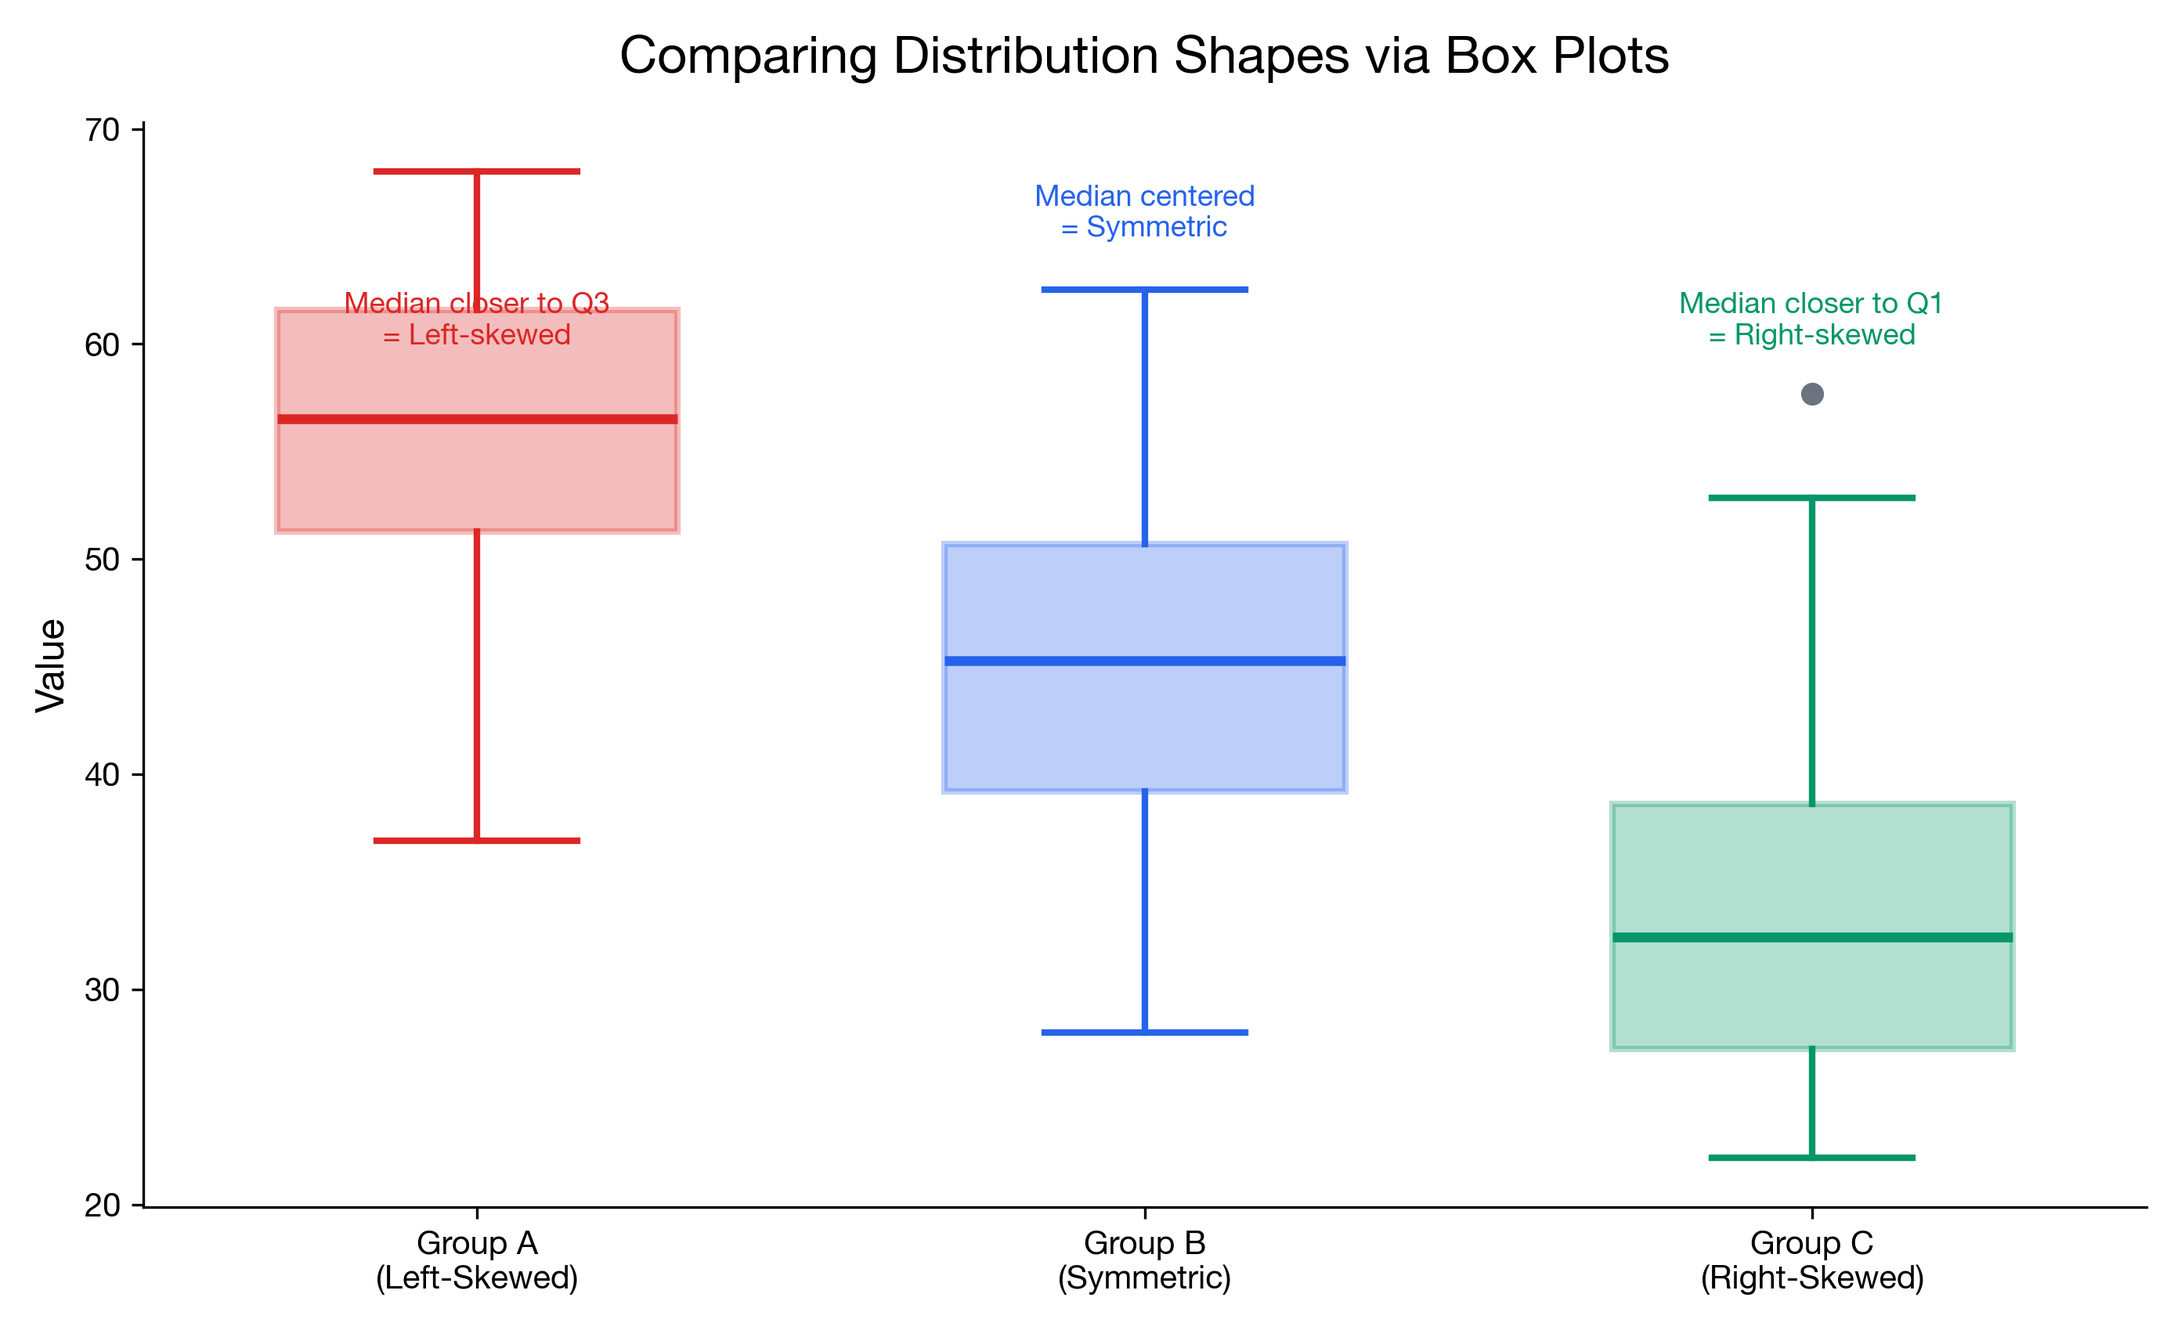
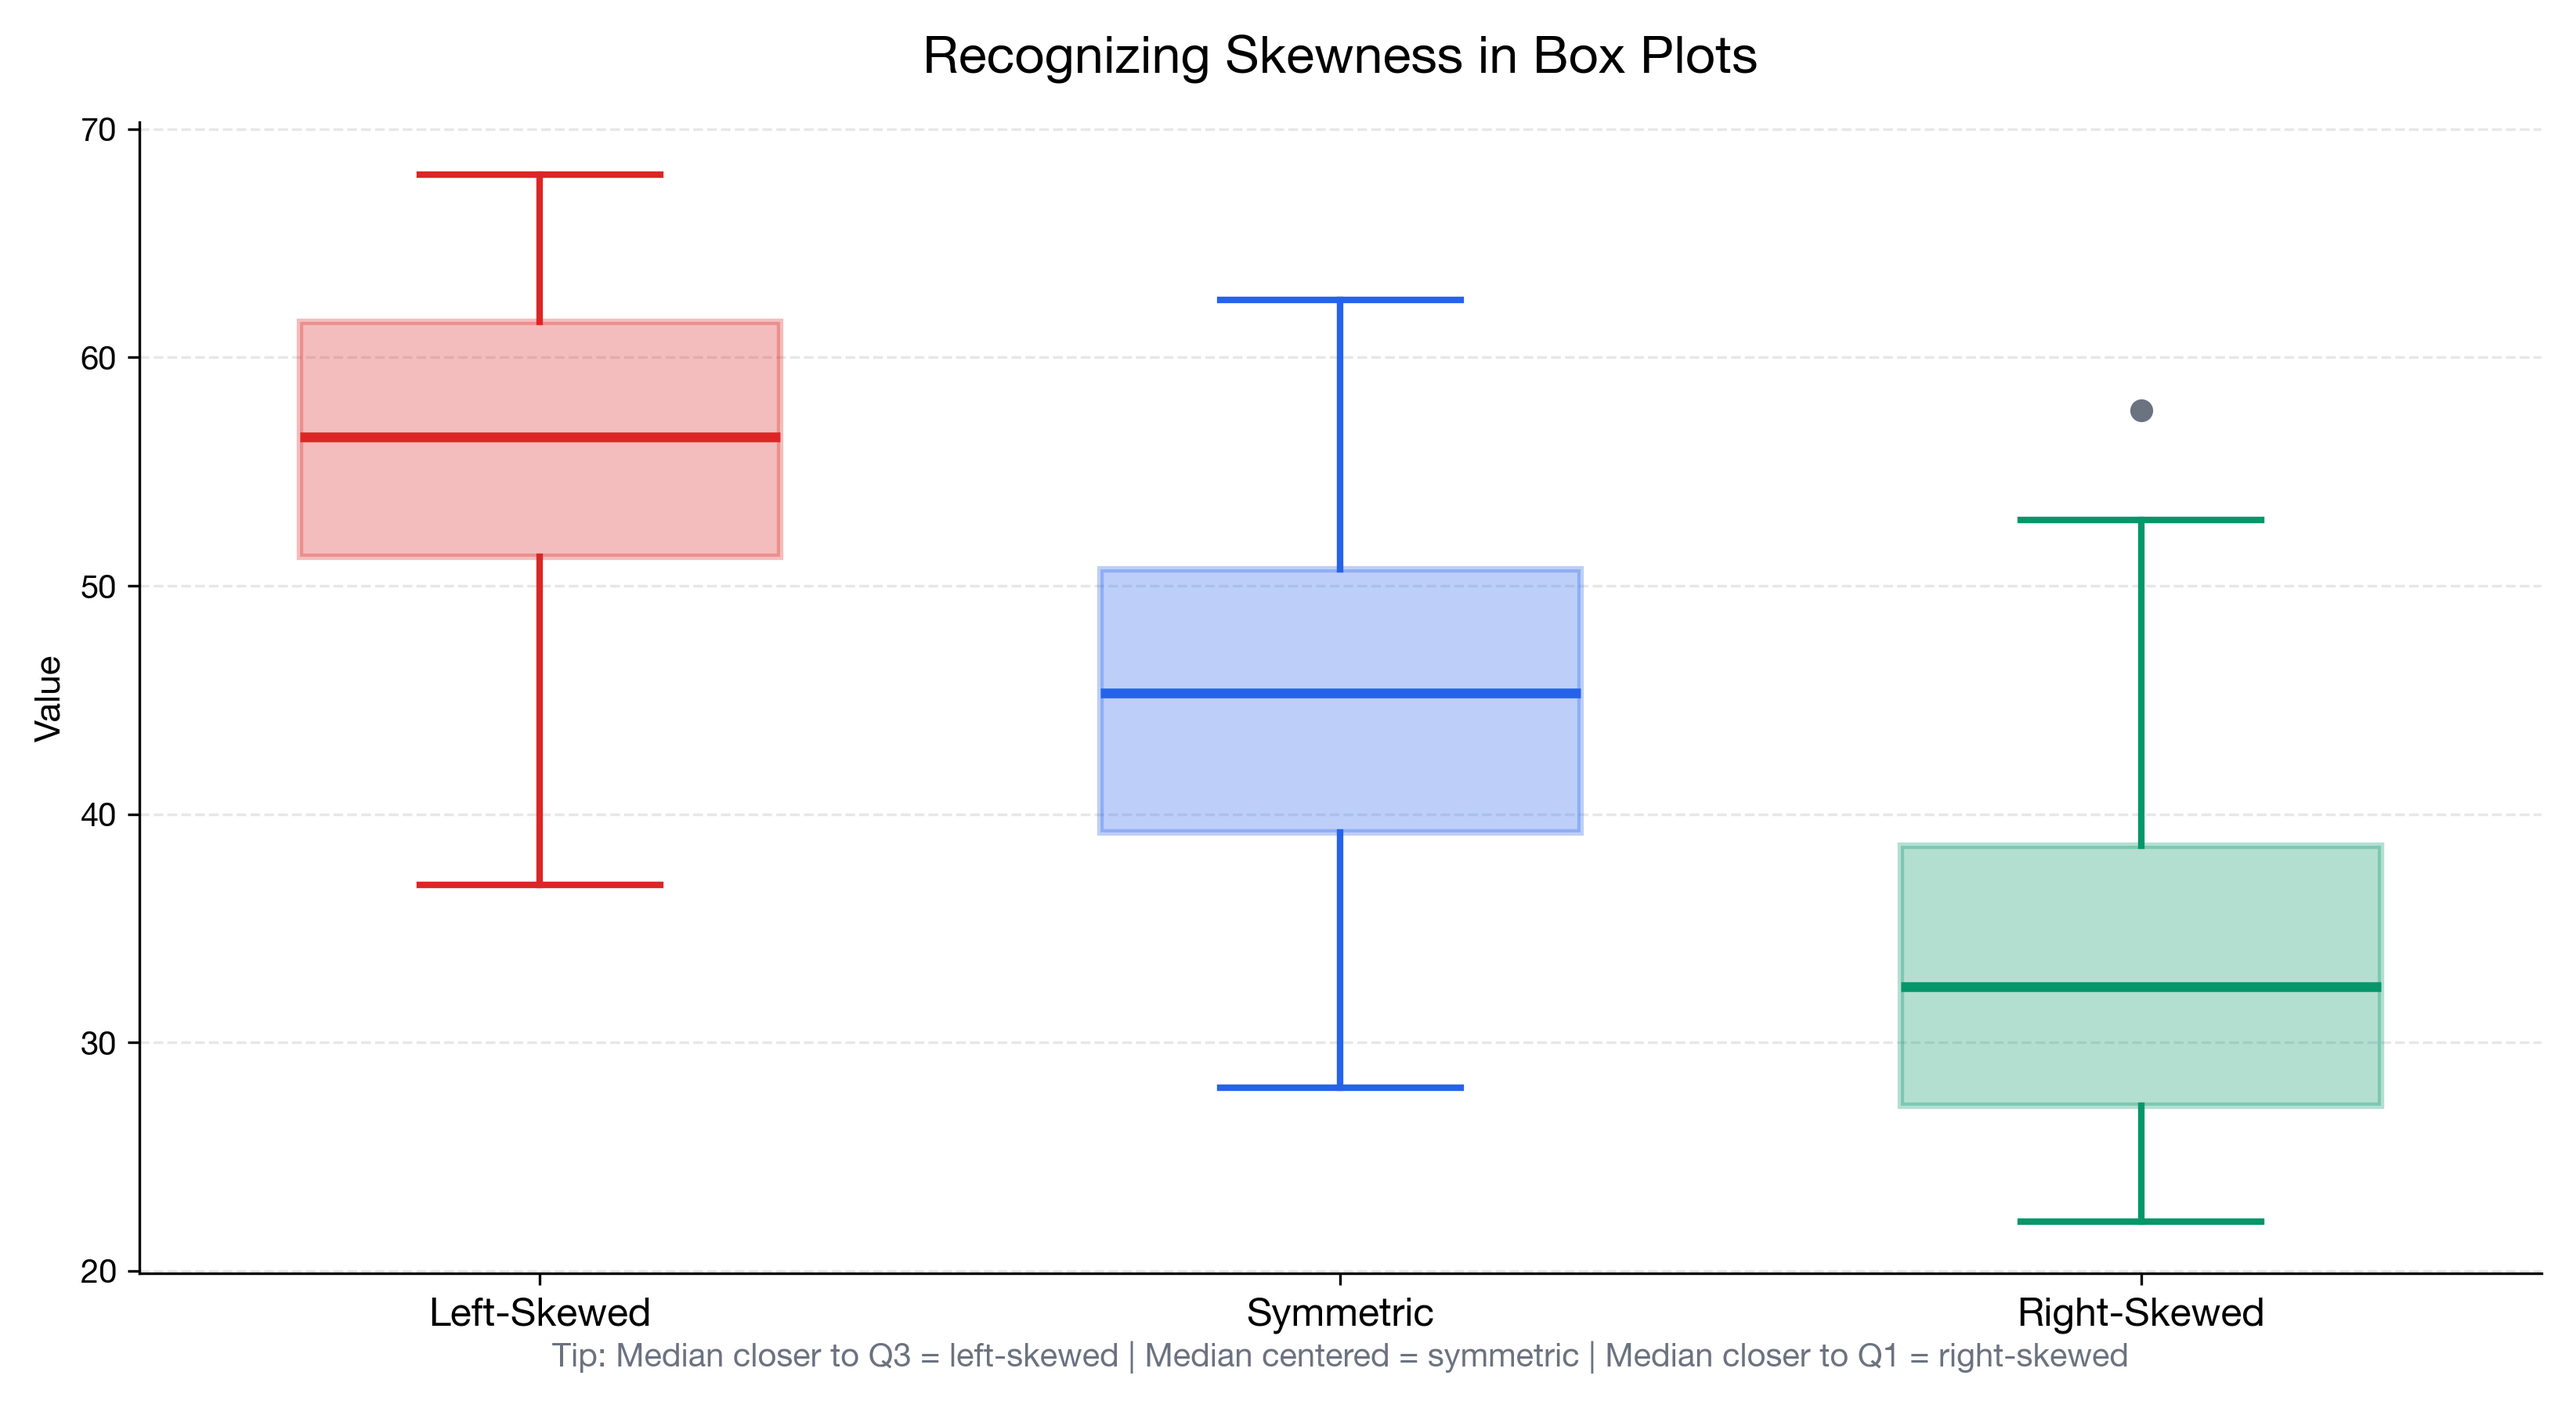
Clean up boxplot visuals - reduce noise while keeping content
boxplot_labeled:
- Split into 2-panel layout (diagram + info card)
- Clean horizontal lines instead of crossing arrows
- Five-number summary displayed as table
- Fence formulas in dedicated section

boxplot_comparison:
- Cleaner labels (no multiline x-ticks)
- Removed floating annotations
- Single line tip at bottom
- Subtle grid, cleaner spines

diff --git a/statistics/tools/generate_images.py b/statistics/tools/generate_images.py
@@ -218,103 +218,115 @@ def generate_kurtosis_types():
 
 
 def generate_boxplot_labeled():
-    """Generate a labeled box plot showing all components."""
-    fig, ax = plt.subplots(figsize=(12, 7))
+    """Generate a labeled box plot showing all components - clean design."""
+    fig, (ax_box, ax_info) = plt.subplots(1, 2, figsize=(14, 7), gridspec_kw={'width_ratios': [1, 1]})
     
-    # Create sample data with an outlier
+    # Create sample data with outliers
     np.random.seed(42)
-    data = np.concatenate([np.random.normal(35, 10, 50), [75, 78]])  # Add outliers
+    data = np.concatenate([np.random.normal(35, 10, 50), [75, 78]])
     
-    # Create box plot
-    bp = ax.boxplot(data, vert=True, widths=0.5, patch_artist=True,
-                    flierprops=dict(marker='o', markerfacecolor=COLORS['warning'], 
-                                   markersize=10, markeredgecolor=COLORS['warning']))
+    # Create box plot - positioned to the left
+    bp = ax_box.boxplot(data, vert=True, widths=0.4, patch_artist=True, positions=[0.5],
+                        flierprops=dict(marker='o', markerfacecolor=COLORS['warning'], 
+                                       markersize=12, markeredgecolor='white', markeredgewidth=2))
     
     # Style the box
-    bp['boxes'][0].set_facecolor(COLORS['light'])
+    bp['boxes'][0].set_facecolor(COLORS['primary'])
+    bp['boxes'][0].set_alpha(0.3)
     bp['boxes'][0].set_edgecolor(COLORS['primary'])
-    bp['boxes'][0].set_linewidth(2)
+    bp['boxes'][0].set_linewidth(3)
     bp['medians'][0].set_color(COLORS['warning'])
-    bp['medians'][0].set_linewidth(3)
-    bp['whiskers'][0].set_color(COLORS['primary'])
-    bp['whiskers'][1].set_color(COLORS['primary'])
-    bp['whiskers'][0].set_linewidth(2)
-    bp['whiskers'][1].set_linewidth(2)
-    bp['caps'][0].set_color(COLORS['primary'])
-    bp['caps'][1].set_color(COLORS['primary'])
-    bp['caps'][0].set_linewidth(2)
-    bp['caps'][1].set_linewidth(2)
+    bp['medians'][0].set_linewidth(4)
+    for whisker in bp['whiskers']:
+        whisker.set_color(COLORS['primary'])
+        whisker.set_linewidth(2)
+    for cap in bp['caps']:
+        cap.set_color(COLORS['primary'])
+        cap.set_linewidth(2)
     
     # Get actual values
-    q1, median, q3 = np.percentile(data[:-2], [25, 50, 75])  # Exclude outliers
+    q1, median, q3 = np.percentile(data[:-2], [25, 50, 75])
     iqr = q3 - q1
     whisker_low = max(min(data), q1 - 1.5 * iqr)
     whisker_high = min(max(data[:-2]), q3 + 1.5 * iqr)
     
-    # Add annotations with arrows
-    annotation_style = dict(fontsize=11, fontweight='bold', color=COLORS['dark'])
-    arrow_style = dict(arrowstyle='->', color=COLORS['neutral'], lw=1.5)
+    # Clean horizontal lines to labels on the right
+    labels_data = [
+        (whisker_high, f'Maximum = {whisker_high:.0f}', COLORS['primary']),
+        (q3, f'Q3 (75th %) = {q3:.0f}', COLORS['primary']),
+        (median, f'Median = {median:.0f}', COLORS['warning']),
+        (q1, f'Q1 (25th %) = {q1:.0f}', COLORS['primary']),
+        (whisker_low, f'Minimum = {whisker_low:.0f}', COLORS['primary']),
+    ]
     
-    # Maximum (whisker)
-    ax.annotate(f'Maximum\n(within 1.5×IQR)\n= {whisker_high:.0f}', 
-                xy=(1, whisker_high), xytext=(1.8, whisker_high + 5),
-                **annotation_style, ha='left',
-                arrowprops=arrow_style)
+    for y_val, label, color in labels_data:
+        ax_box.plot([0.72, 1.0], [y_val, y_val], color=color, linewidth=1.5, linestyle='-', alpha=0.7)
+        ax_box.text(1.05, y_val, label, fontsize=11, fontweight='bold', va='center', color=color)
     
-    # Q3
-    ax.annotate(f'Q3 (75th percentile)\n= {q3:.0f}', 
-                xy=(1.25, q3), xytext=(1.8, q3),
-                **annotation_style, ha='left', va='center',
-                arrowprops=arrow_style)
+    # IQR bracket on the left
+    ax_box.annotate('', xy=(0.2, q1), xytext=(0.2, q3),
+                    arrowprops=dict(arrowstyle='<->', color=COLORS['accent'], lw=3))
+    ax_box.text(0.08, (q1 + q3) / 2, f'IQR\n= {iqr:.0f}', fontsize=12, fontweight='bold', 
+                ha='center', va='center', color=COLORS['accent'])
     
-    # Median
-    ax.annotate(f'Median (Q2)\n= {median:.0f}', 
-                xy=(1.25, median), xytext=(1.8, median - 5),
-                **annotation_style, ha='left',
-                arrowprops=arrow_style)
+    # Outlier label
+    ax_box.text(0.35, 80, 'Outliers', fontsize=11, fontweight='bold', ha='center', 
+                color=COLORS['warning'])
     
-    # Q1
-    ax.annotate(f'Q1 (25th percentile)\n= {q1:.0f}', 
-                xy=(1.25, q1), xytext=(1.8, q1 - 3),
-                **annotation_style, ha='left', va='center',
-                arrowprops=arrow_style)
+    ax_box.set_xlim(0, 1.8)
+    ax_box.set_ylim(0, 90)
+    ax_box.set_ylabel('Value', fontsize=12)
+    ax_box.set_xticks([])
+    ax_box.set_title('Box Plot Anatomy', fontsize=16, fontweight='bold')
+    ax_box.spines['top'].set_visible(False)
+    ax_box.spines['right'].set_visible(False)
+    ax_box.spines['bottom'].set_visible(False)
     
-    # Minimum (whisker)
-    ax.annotate(f'Minimum\n(within 1.5×IQR)\n= {whisker_low:.0f}', 
-                xy=(1, whisker_low), xytext=(1.8, whisker_low - 5),
-                **annotation_style, ha='left',
-                arrowprops=arrow_style)
+    # Right panel: Info card
+    ax_info.axis('off')
     
-    # Outliers
-    ax.annotate('Outliers\n(beyond 1.5×IQR)', 
-                xy=(1, 76), xytext=(0.2, 72),
-                **annotation_style, ha='right',
-                arrowprops=arrow_style)
+    # Five-number summary table
+    ax_info.text(0.5, 0.95, 'Five-Number Summary', fontsize=14, fontweight='bold', 
+                 ha='center', transform=ax_info.transAxes, color=COLORS['dark'])
     
-    # IQR bracket
-    ax.annotate('', xy=(0.6, q1), xytext=(0.6, q3),
-                arrowprops=dict(arrowstyle='<->', color=COLORS['accent'], lw=2))
-    ax.text(0.45, (q1 + q3) / 2, f'IQR\n= {iqr:.0f}', 
-            fontsize=11, fontweight='bold', ha='center', va='center',
-            color=COLORS['accent'])
+    summary_text = f"""
+    Minimum:  {whisker_low:.0f}
+    Q1:       {q1:.0f}
+    Median:   {median:.0f}
+    Q3:       {q3:.0f}
+    Maximum:  {whisker_high:.0f}
     
-    ax.set_xlim(0, 3)
-    ax.set_ylim(0, 85)
-    ax.set_ylabel('Value')
-    ax.set_xticks([])
-    ax.set_title('Anatomy of a Box Plot', fontsize=16, fontweight='bold', pad=15)
-
-    # Fence formulas with worked example
+    IQR = Q3 - Q1 = {q3:.0f} - {q1:.0f} = {iqr:.0f}
+    """
+    ax_info.text(0.1, 0.85, summary_text, fontsize=12, va='top', transform=ax_info.transAxes,
+                 fontfamily='monospace', color=COLORS['dark'])
+    
+    # Fence formulas
     lower_fence = q1 - 1.5 * iqr
     upper_fence = q3 + 1.5 * iqr
-    ax.text(0.02, 0.12,
-            f'Fence calculations:\n'
-            f'Lower fence = Q1 - 1.5*IQR = {q1:.0f} - {1.5*iqr:.0f} = {lower_fence:.0f}\n'
-            f'Upper fence = Q3 + 1.5*IQR = {q3:.0f} + {1.5*iqr:.0f} = {upper_fence:.0f}\n'
-            f'Outliers: values < {lower_fence:.0f} or > {upper_fence:.0f}',
-            transform=ax.transAxes, fontsize=10, color=COLORS['dark'],
-            bbox=dict(boxstyle='round', facecolor='white', edgecolor=COLORS['neutral'], alpha=0.9))
     
+    ax_info.text(0.5, 0.45, 'Outlier Detection (Fences)', fontsize=14, fontweight='bold',
+                 ha='center', transform=ax_info.transAxes, color=COLORS['dark'])
+    
+    fence_text = f"""
+    Lower fence = Q1 - 1.5×IQR
+                = {q1:.0f} - {1.5*iqr:.0f} = {lower_fence:.0f}
+    
+    Upper fence = Q3 + 1.5×IQR  
+                = {q3:.0f} + {1.5*iqr:.0f} = {upper_fence:.0f}
+    
+    Outliers: values beyond fences
+    """
+    ax_info.text(0.1, 0.38, fence_text, fontsize=11, va='top', transform=ax_info.transAxes,
+                 fontfamily='monospace', color=COLORS['dark'])
+    
+    # Key insight box
+    ax_info.text(0.5, 0.08, '50% of data lies within the box (IQR)', fontsize=11, 
+                 ha='center', va='center', transform=ax_info.transAxes, style='italic',
+                 bbox=dict(boxstyle='round,pad=0.5', facecolor=COLORS['light'], 
+                          edgecolor=COLORS['accent'], linewidth=2))
+    
+    plt.tight_layout()
     save_figure(fig, 'boxplot_labeled.png')
 
 
@@ -363,18 +375,23 @@ def generate_boxplot_comparison():
         flier.set_markerfacecolor(COLORS['neutral'])
         flier.set_markeredgecolor(COLORS['neutral'])
     
-    ax.set_xticklabels(['Group A\n(Left-Skewed)', 'Group B\n(Symmetric)', 'Group C\n(Right-Skewed)'])
-    ax.set_ylabel('Value')
-    ax.set_title('Comparing Distribution Shapes via Box Plots', fontsize=16, fontweight='bold', pad=15)
+    ax.set_xticks(positions)
+    ax.set_xticklabels(['Left-Skewed', 'Symmetric', 'Right-Skewed'], fontsize=12, fontweight='bold')
+    ax.set_ylabel('Value', fontsize=11)
+    ax.set_title('Recognizing Skewness in Box Plots', fontsize=16, fontweight='bold', pad=15)
     
-    # Add annotations
-    ax.annotate('Median closer to Q3\n= Left-skewed', xy=(1, 60), fontsize=9, 
-                ha='center', color=COLORS['left_skew'], style='italic')
-    ax.annotate('Median centered\n= Symmetric', xy=(2, 65), fontsize=9, 
-                ha='center', color=COLORS['symmetric'], style='italic')
-    ax.annotate('Median closer to Q1\n= Right-skewed', xy=(3, 60), fontsize=9, 
-                ha='center', color=COLORS['right_skew'], style='italic')
+    # Clean styling
+    ax.yaxis.grid(True, linestyle='--', alpha=0.3)
+    ax.set_axisbelow(True)
+    ax.spines['top'].set_visible(False)
+    ax.spines['right'].set_visible(False)
     
+    # Key insight at bottom (cleaner than floating annotations)
+    ax.text(0.5, -0.08, 
+            'Tip: Median closer to Q3 = left-skewed | Median centered = symmetric | Median closer to Q1 = right-skewed',
+            transform=ax.transAxes, fontsize=10, ha='center', style='italic', color=COLORS['neutral'])
+    
+    plt.tight_layout()
     save_figure(fig, 'boxplot_comparison.png')
 
 
